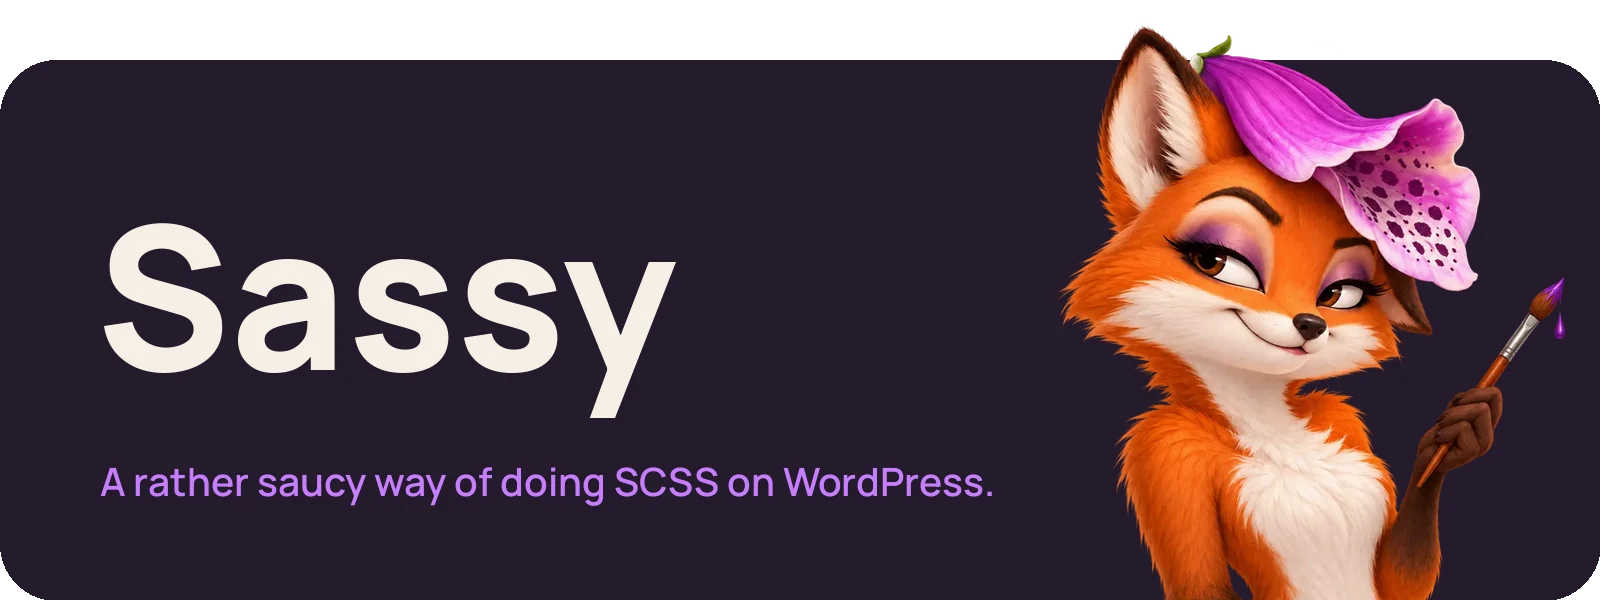
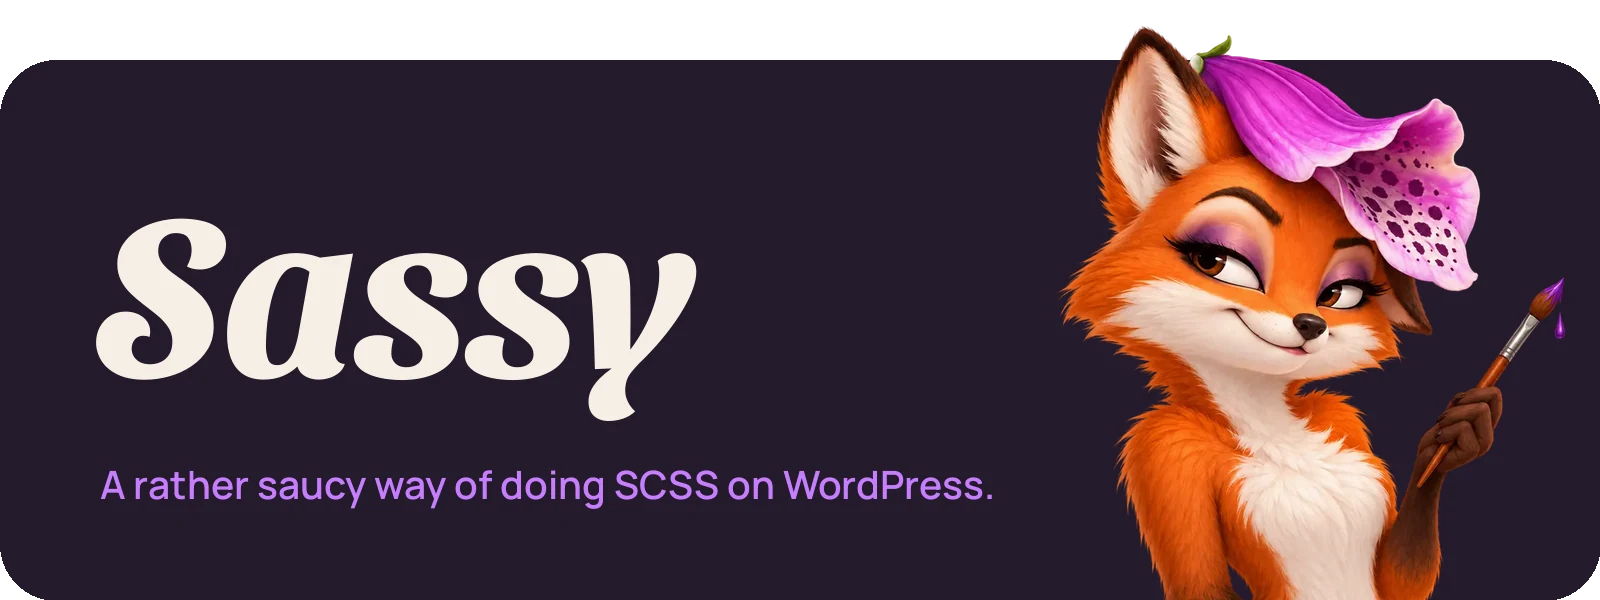
docs: Sansita Swashed for the title

Changed region(s): [[0.0625, 0.36, 0.4375, 0.72], [0.0625, 0.78, 0.625, 0.84]]

diff --git a/docs/hero.py b/docs/hero.py
@@ -1,13 +1,17 @@
 """Builds the readme banners, assets/img/hero.{light,dark}.webp, from Cascade's portrait.
 
-Run from the plugin root: python3 docs/hero.py. Needs Pillow. Fetches Manrope once into /tmp.
+Run from the plugin root: python3 docs/hero.py. Needs Pillow. Fetches the two faces once into /tmp:
+Sansita Swashed for the title, Manrope, the Digitalis brand face, for the tagline.
 """
 from PIL import Image, ImageDraw, ImageFont
 import os, urllib.request
 
-FONT = '/tmp/Manrope.ttf'
-if not os.path.exists(FONT):
-    urllib.request.urlretrieve('https://github.com/google/fonts/raw/main/ofl/manrope/Manrope%5Bwght%5D.ttf', FONT)
+FONTS = {
+    'title':   ('/tmp/SansitaSwashed.ttf', 'https://github.com/google/fonts/raw/main/ofl/sansitaswashed/SansitaSwashed%5Bwght%5D.ttf'),
+    'tagline': ('/tmp/Manrope.ttf',        'https://github.com/google/fonts/raw/main/ofl/manrope/Manrope%5Bwght%5D.ttf'),
+}
+for path, url in FONTS.values():
+    if not os.path.exists(path): urllib.request.urlretrieve(url, path)
 
 W, H = 1600, 600
 CARD_TOP = 60           # the hat pokes above the card
@@ -15,8 +19,8 @@ RADIUS = 56
 X = 96                  # left margin for the text
 GAP = 36                # between the y's descender and the tagline
 
-def font(size, weight):
-    f = ImageFont.truetype(FONT, size)
+def font(size, weight, face='tagline'):
+    f = ImageFont.truetype(FONTS[face][0], size)
     f.set_variation_by_name(weight)
     return f
 
@@ -33,10 +37,10 @@ def hero(out, card, title_col, tag_col):
     # her leftmost opaque column, so the tagline is fitted to her rather than to the box
     fox_left = fox_x + min(x for x in range(fh) if any(fox.getpixel((x, y))[3] > 40 for y in range(H - fh, fh, 8)))
 
-    title = font(200, 'ExtraBold')
+    title = font(230, 'Bold', 'title')
     tag = 'A rather saucy way of doing SCSS on WordPress.'
-    d.text((X, CARD_TOP + 96), 'Sassy', font=title, fill=title_col)
-    bottom = d.textbbox((X, CARD_TOP + 96), 'Sassy', font=title)[3]
+    d.text((X, CARD_TOP + 80), 'Sassy', font=title, fill=title_col)
+    bottom = d.textbbox((X, CARD_TOP + 80), 'Sassy', font=title)[3]
 
     size = 46
     while d.textlength(tag, font=font(size, 'SemiBold')) > fox_left - X - 48: size -= 1
